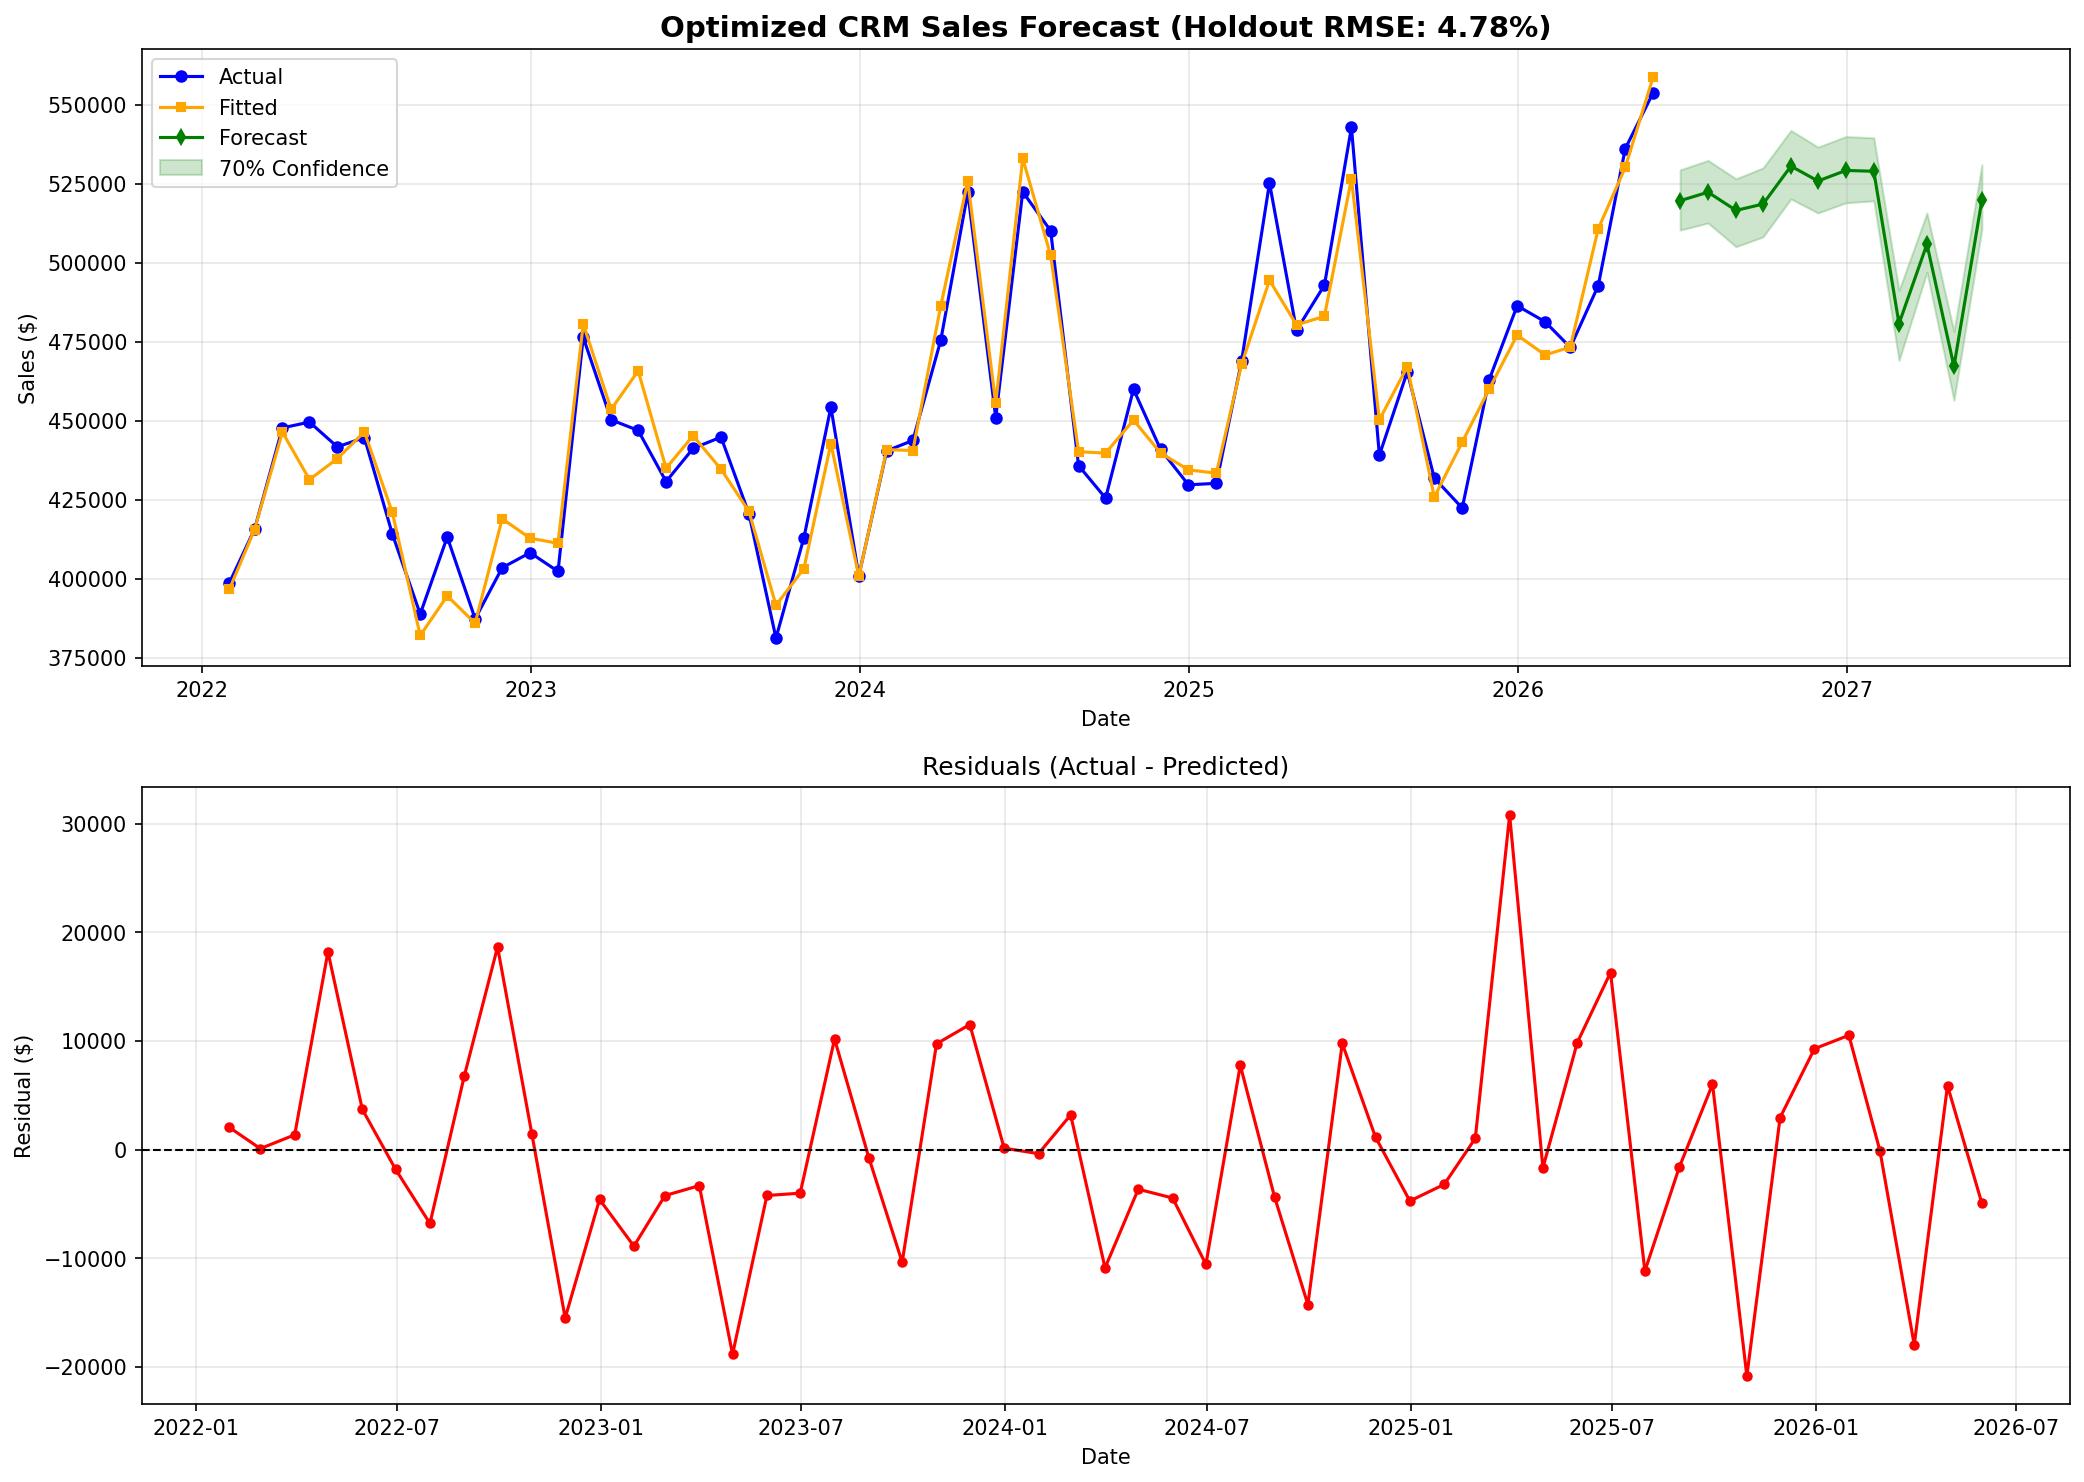
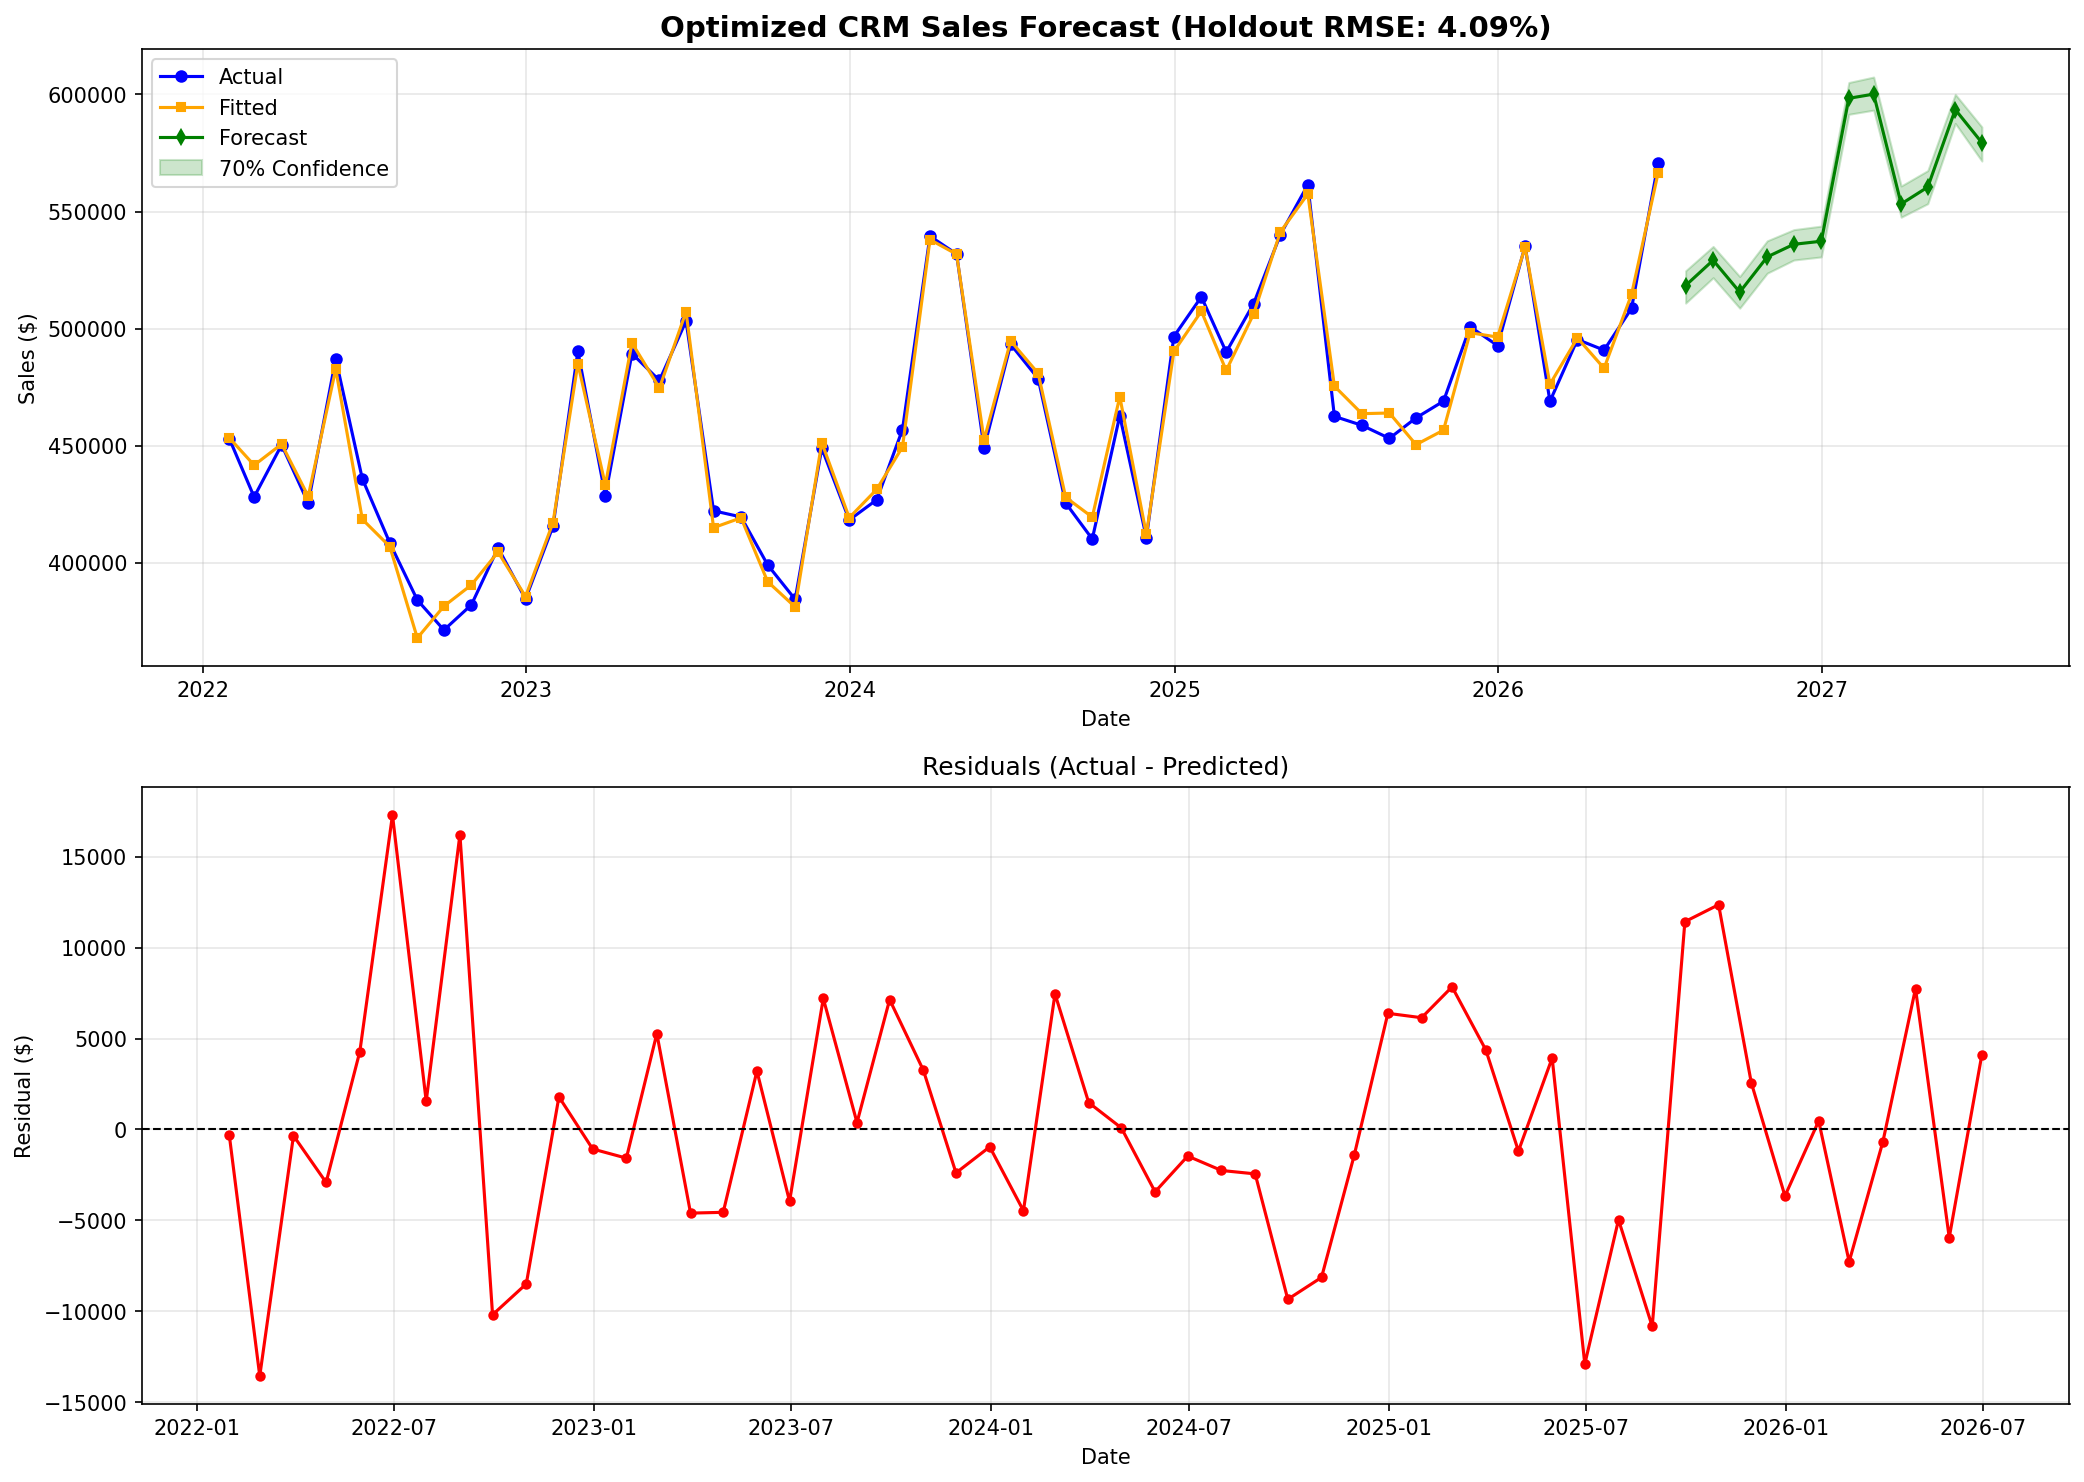
Update README and forecast outputs

diff --git a/README.md b/README.md
@@ -4,9 +4,9 @@ An optimized time-series forecasting system using Prophet (Bayesian) with advanc
 
 ## 📊 Performance Metrics
 
-- **Holdout RMSE**: **21,557.75** (**4.78%** of mean sales, Excellent accuracy)
-- **MAPE**: **3.37%** (Very precise)
-- **Best CV RMSE**: **62,209** (**13.78%** of mean sales)
+- **Holdout RMSE**: **18,839.88** (**4.09%** of mean sales, Excellent accuracy)
+- **MAPE**: **3.29%** (Very precise)
+- **Best CV RMSE**: **31,914** (**6.93%** of mean sales)
 - **Model Status**: 🎯 **Production Ready**
 - **Interpretation**: Ideal for CRM forecasting & target-setting
 
@@ -58,7 +58,7 @@ python forecast_backup.py
 ```
 **Output Files:**
 - `prophet_sales_forecast_results.csv` - 12-month forecast
-- `prophet_historical_performance.csv` - 53-month historical performance
+- `prophet_historical_performance.csv` - 54-month historical performance
 - `prophet_optimized_forecast.png` - Visualization
 - `territory_single_prophet_ready.csv` - Synthetic training data
 
@@ -78,7 +78,7 @@ SalesForcasting/
 ├── requirements.txt                # Python dependencies
 ├── README.md                       # This file
 ├── prophet_sales_forecast_results.csv       # Generated forecast (12 months)
-├── prophet_historical_performance.csv       # Generated historical data (53 months)
+├── prophet_historical_performance.csv       # Generated historical data (54 months)
 ├── prophet_optimized_forecast.png           # Generated visualization
 └── territory_single_prophet_ready.csv       # Synthetic training data
 ```
@@ -114,7 +114,7 @@ Where: uplift = 1.05 + 0.40×close_rate + 0.25×territory_potential
 |-----|---------|
 | **Overview** | Key metrics, model status, recommendations |
 | **Forecast** | 12-month projection with confidence bands |
-| **Historical** | 53-month actual vs predicted analysis |
+| **Historical** | 54-month actual vs predicted analysis |
 | **Data** | Interactive data explorer with downloads |
 | **Settings** | Model config, performance summary, resources |
 
@@ -132,14 +132,14 @@ MISTRAL_API_KEY = "your_key_here"        # Add your API key
 ## 📈 Data Specifications
 
 ### Synthetic Data Generation
-- **Time Period**: 53 months (2022-01 to 2026-05)
+- **Time Period**: 54 months (2022-01 to 2026-06)
 - **Trend**: +5% annual growth
 - **Seasonality**: 8% amplitude with monthly cycles
 - **Noise**: ±8-12% random variation
 - **Regressors**: 5 focused features
 
 ### Train/Test Split
-- **Training**: 50 months
+- **Training**: 51 months
 - **Holdout Test**: 3 months
 - **Cross-Validation**: 90-day horizon, 30-day period
 
@@ -160,18 +160,6 @@ MISTRAL_API_KEY = "your_key_here"        # Add your API key
 - **Pandas** (2.3.3) - Data manipulation
 - **Streamlit** (1.39.0) - Dashboard framework
 - **Matplotlib/Seaborn** - Visualization
-
-## 🔐 Security Notes
-
-- ⚠ **API Key in Code**: The Mistral AI key is stored in the script. For production, use environment variables:
-  ```bash
-  export MISTRAL_API_KEY="your_key"
-  ```
-  Then in code:
-  ```python
-  import os
-  MISTRAL_API_KEY = os.getenv("MISTRAL_API_KEY")
-  ```
 
 ## 📝 Usage Examples
 
@@ -237,7 +225,7 @@ MIT License - Feel free to use, modify, and distribute.
 ### From Original → Optimized
 | Aspect | Original | Optimized |
 |--------|----------|-----------|
-| RMSE | 15.40% | **4.78%** ✅ |
+| RMSE | 15.40% | **4.09%** ✅ |
 | Hyperparameter Grid | 8 combinations | **22 combinations** ✅ |
 | Feature Count | Basic | **5 focused regressors** ✅ |
 | Holdout Period | 6 months | **3 months** (more training) ✅ |
@@ -247,7 +235,7 @@ MIT License - Feel free to use, modify, and distribute.
 
 ---
 
-**Last Updated**: June 27, 2026  
+**Last Updated**: July 11, 2026  
 **Status**: 🎯 Production Ready
 - **5 engineered regressors** (focused set to reduce overfitting)
 - **Cross-validation based selection** on original-scale RMSE
@@ -393,3 +381,39 @@ MIT License - Feel free to use, modify, and distribute.
 - **5 engineered regressors** (focused set to reduce overfitting)
 - **Cross-validation based selection** on original-scale RMSE
 - **53 months synthetic data** with optimized noise
+- **5 engineered regressors** (focused set to reduce overfitting)
+- **Cross-validation based selection** on original-scale RMSE
+- **53 months synthetic data** with optimized noise
+- **5 engineered regressors** (focused set to reduce overfitting)
+- **Cross-validation based selection** on original-scale RMSE
+- **53 months synthetic data** with optimized noise
+- **5 engineered regressors** (focused set to reduce overfitting)
+- **Cross-validation based selection** on original-scale RMSE
+- **53 months synthetic data** with optimized noise
+- **5 engineered regressors** (focused set to reduce overfitting)
+- **Cross-validation based selection** on original-scale RMSE
+- **54 months synthetic data** with optimized noise
+- **5 engineered regressors** (focused set to reduce overfitting)
+- **Cross-validation based selection** on original-scale RMSE
+- **54 months synthetic data** with optimized noise
+- **5 engineered regressors** (focused set to reduce overfitting)
+- **Cross-validation based selection** on original-scale RMSE
+- **54 months synthetic data** with optimized noise
+- **5 engineered regressors** (focused set to reduce overfitting)
+- **Cross-validation based selection** on original-scale RMSE
+- **54 months synthetic data** with optimized noise
+- **5 engineered regressors** (focused set to reduce overfitting)
+- **Cross-validation based selection** on original-scale RMSE
+- **54 months synthetic data** with optimized noise
+- **5 engineered regressors** (focused set to reduce overfitting)
+- **Cross-validation based selection** on original-scale RMSE
+- **54 months synthetic data** with optimized noise
+- **5 engineered regressors** (focused set to reduce overfitting)
+- **Cross-validation based selection** on original-scale RMSE
+- **54 months synthetic data** with optimized noise
+- **5 engineered regressors** (focused set to reduce overfitting)
+- **Cross-validation based selection** on original-scale RMSE
+- **54 months synthetic data** with optimized noise
+- **5 engineered regressors** (focused set to reduce overfitting)
+- **Cross-validation based selection** on original-scale RMSE
+- **54 months synthetic data** with optimized noise
